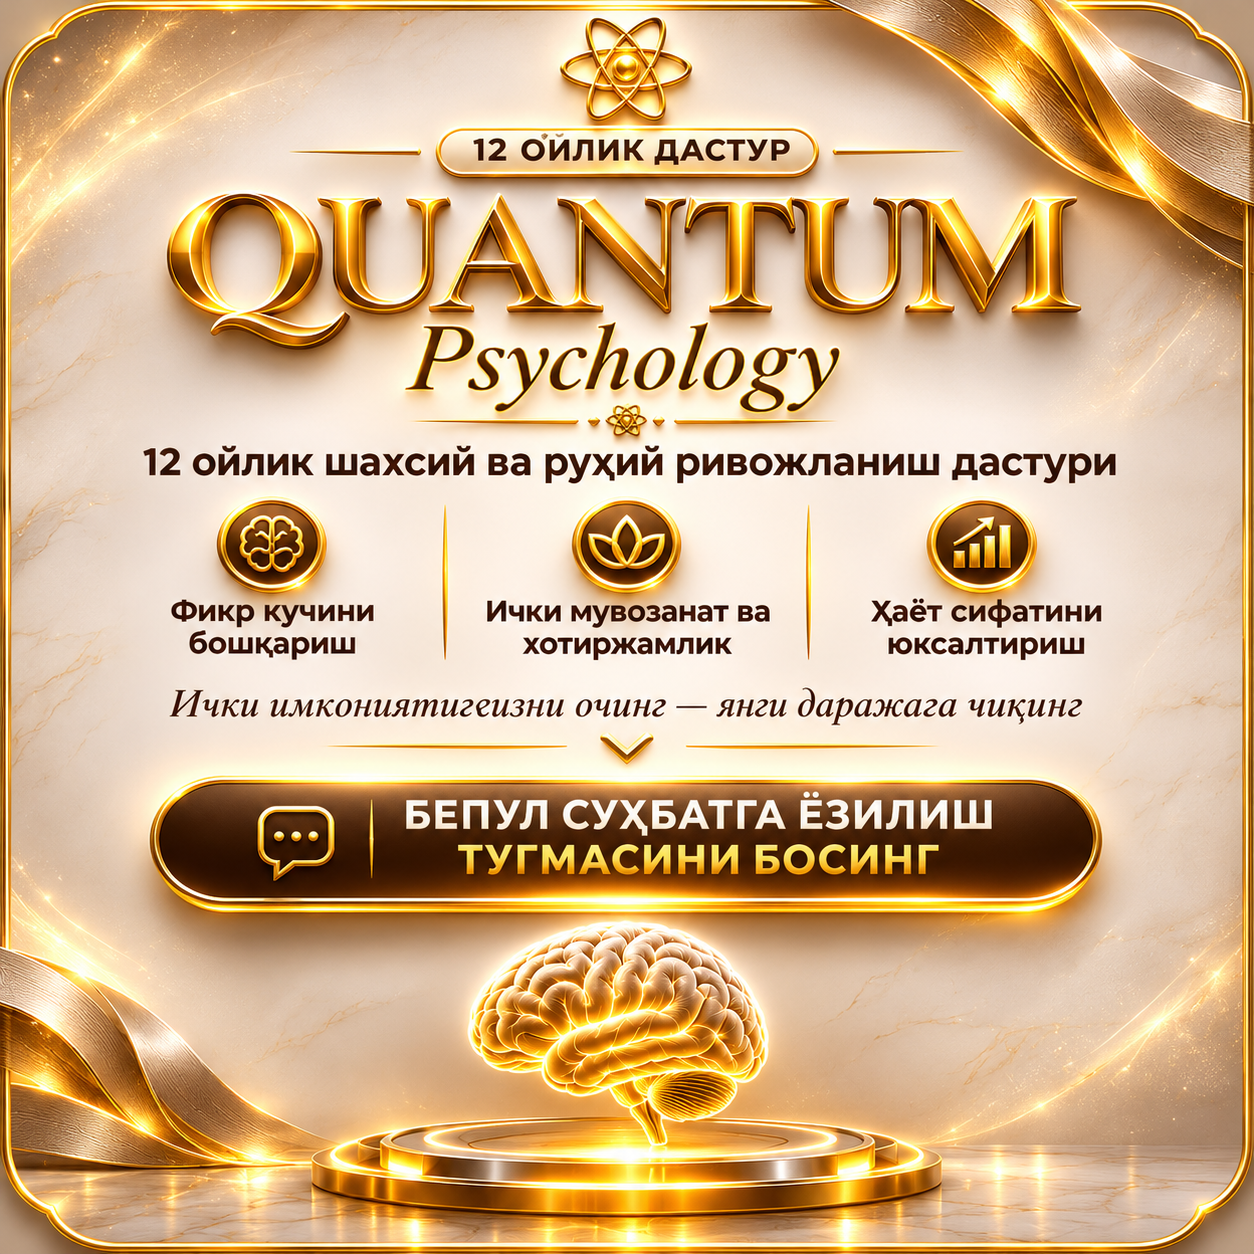
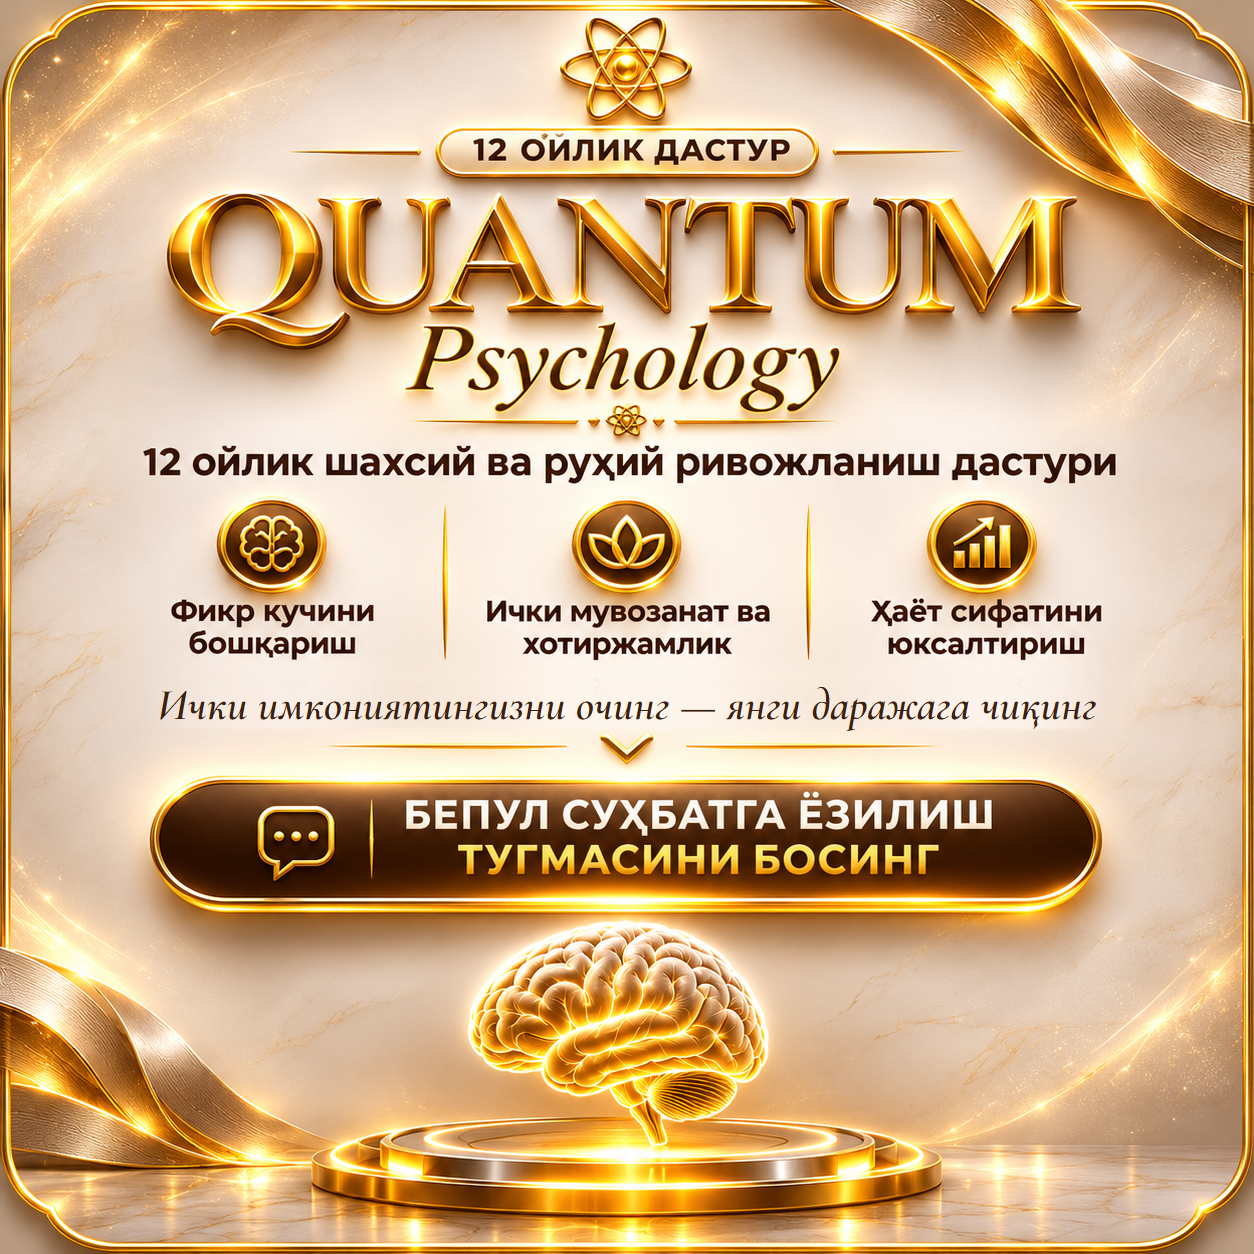
fix: correct welcome slogan typo and make welcome.html the gold source
The gold /start image misspelled the slogan word. welcome.html now uses the original gold image as background, covers only the slogan line with a feathered patch and re-renders the corrected slogan in Cormorant Garamond. bot/assets/welcome.png is rendered from this template; pixels outside the slogan band are unchanged.

Changed region(s): [[0.1244, 0.5287, 0.8708, 0.5909]]

diff --git a/scripts/posters/welcome.html b/scripts/posters/welcome.html
@@ -8,23 +8,10 @@
   <title>QUANTUM Psychology</title>
 </head>
 <body>
-<main class="canvas canvas--welcome">
-  <img class="canvas__bg" src="assets/bg.webp" alt="">
-  <div class="content">
-  <svg class="mark" viewBox="0 0 100 100" aria-hidden="true"><g fill="none" stroke="#C9A050" stroke-width="3"><ellipse cx="50" cy="50" rx="44" ry="15"/><ellipse cx="50" cy="50" rx="44" ry="15" transform="rotate(60 50 50)"/><ellipse cx="50" cy="50" rx="44" ry="15" transform="rotate(120 50 50)"/><circle cx="50" cy="50" r="12"/></g><circle cx="50" cy="50" r="6" fill="#C9A050"/></svg>
-  <div class="eyebrow-row"><p class="eyebrow">12 ОЙЛИК ДАСТУР</p></div>
-  <h1 class="title"><span class="title__main">QUANTUM</span><span class="title__sub">Psychology</span></h1>
-  <div class="divider" aria-hidden="true"><span class="divider__line"></span><i class="divider__diamond"></i><svg class="divider__atom" viewBox="0 0 100 100" aria-hidden="true"><g fill="none" stroke="#C9A050" stroke-width="5"><ellipse cx="50" cy="50" rx="44" ry="15"/><ellipse cx="50" cy="50" rx="44" ry="15" transform="rotate(60 50 50)"/><ellipse cx="50" cy="50" rx="44" ry="15" transform="rotate(120 50 50)"/></g><circle cx="50" cy="50" r="7" fill="#C9A050"/></svg><i class="divider__diamond"></i><span class="divider__line"></span></div>
-  <p class="subtitle">12 ойлик шахсий ва руҳий ривожланиш дастури</p>
-  <ul class="benefits">
-    <li><span class="benefit-icon"><svg viewBox="0 0 40 40" aria-hidden="true"><path d="M20 9c-2-4-9-3-10 2-4 0-6 5-3 8-3 3-1 8 3 9 0 5 7 7 10 3V9Zm0 0c2-4 9-3 10 2 4 0 6 5 3 8 3 3 1 8-3 9 0 5-7 7-10 3V9Z"/><path d="M13 14c3 0 5 2 5 5m-7 5c3-2 6-1 8 2m8-12c-3 0-5 2-5 5m7 5c-3-2-6-1-8 2"/></svg></span><span>Фикр кучини бошқариш</span></li>
-    <li><span class="benefit-icon"><svg viewBox="0 0 40 40" aria-hidden="true"><path d="M20 29c-6-5-8-10 0-19 8 9 6 14 0 19Z"/><path d="M19 29c-9 0-14-5-13-13 6 0 11 3 13 13Zm2 0c9 0 14-5 13-13-6 0-11 3-13 13Z"/><path d="M7 31c7 3 19 3 26 0"/></svg></span><span>Ички мувозанат ва хотиржамлик</span></li>
-    <li><span class="benefit-icon"><svg viewBox="0 0 40 40" aria-hidden="true"><path d="M7 32h27M9 29V19h6v10m4 0V14h6v15m4 0V8h5v21"/><path d="m8 17 9-5 6 3 10-9m-6 0h6v6"/></svg></span><span>Ҳаёт сифатини юксалтириш</span></li>
-  </ul>
-  <p class="slogan">Ички имкониятингизни очинг — янги даражага чиқинг</p>
-  <svg class="chevron" viewBox="0 0 40 31" aria-hidden="true"><path d="m7 9 13 13L33 9"/></svg>
-  <div class="cta"><span>БЕПУЛ СУҲБАТГА ЁЗИЛИШ</span><span>ТУГМАСИНИ БОСИНГ</span></div>
-  </div>
+<main class="canvas canvas--gold">
+  <img class="canvas__bg" src="assets/welcome-gold.png" alt="">
+  <div class="slogan-patch" aria-hidden="true"></div>
+  <p class="slogan slogan--gold">Ички имкониятингизни очинг — янги даражага чиқинг</p>
 </main>
 </body>
 </html>

diff --git a/scripts/posters/posters.css b/scripts/posters/posters.css
@@ -37,3 +37,6 @@ body { color-scheme: light; background: #FBF6EC; font-family: "Montserrat", sans
 .canvas--poster .benefits { margin-top: 40px; }
 .canvas--poster .benefits li { font-size: 27px; }
 .canvas--poster .slogan { margin-top: 52px; }
+.canvas--gold::before { content: none; }
+.canvas--gold .slogan-patch { position: absolute; left: 11.5%; top: 54%; width: 77%; height: 4.4%; background-image: url("assets/welcome-gold.png"); background-size: 1254px 5016px; background-position: center -2640px; -webkit-mask-image: linear-gradient(to bottom, transparent, black 12%, black 88%, transparent), linear-gradient(to right, transparent, black 3%, black 97%, transparent); mask-image: linear-gradient(to bottom, transparent, black 12%, black 88%, transparent), linear-gradient(to right, transparent, black 3%, black 97%, transparent); -webkit-mask-composite: source-in; mask-composite: intersect; }
+.canvas--gold .slogan { position: absolute; top: 54.5%; left: 0; width: 100%; max-width: none; margin: 0; color: #3B2112; font: italic 600 44px/1.04 "Cormorant Garamond", serif; text-align: center; }
